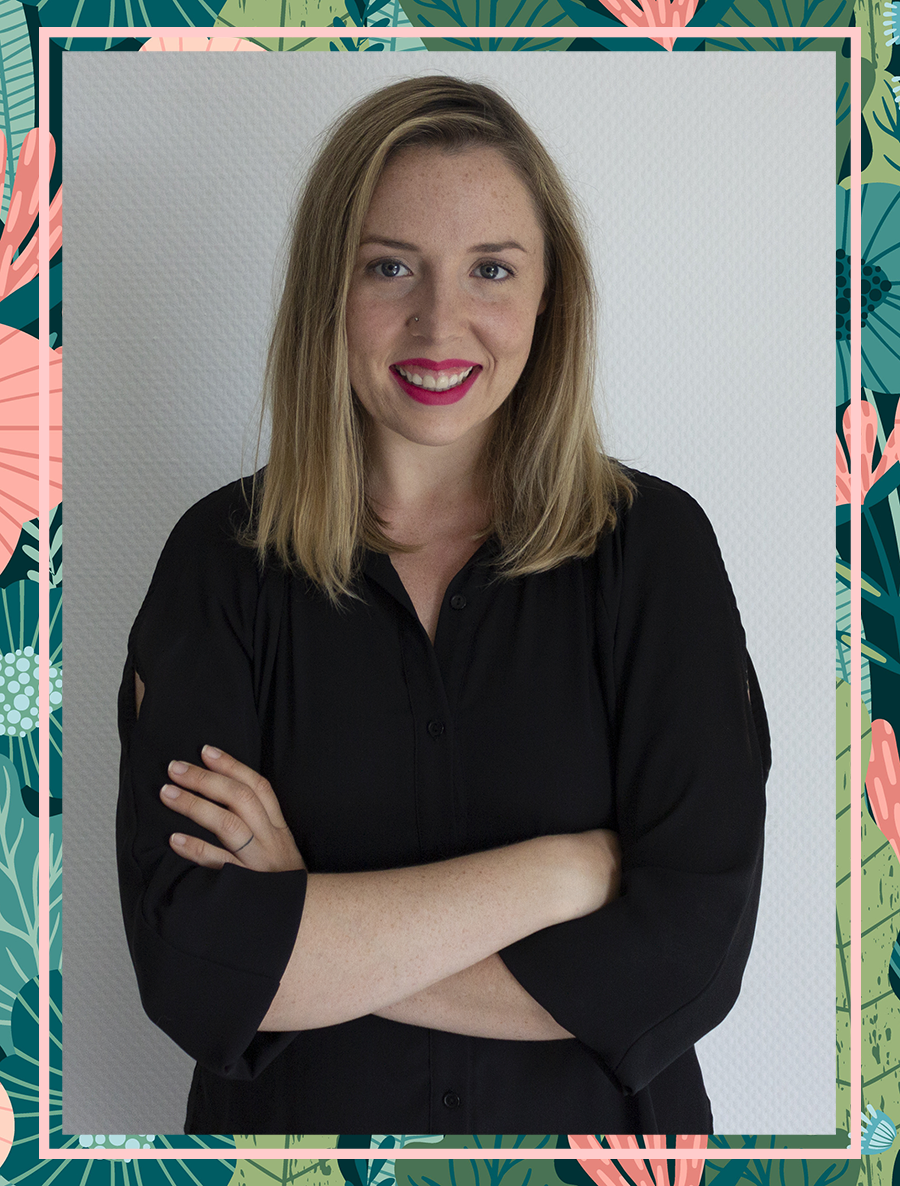
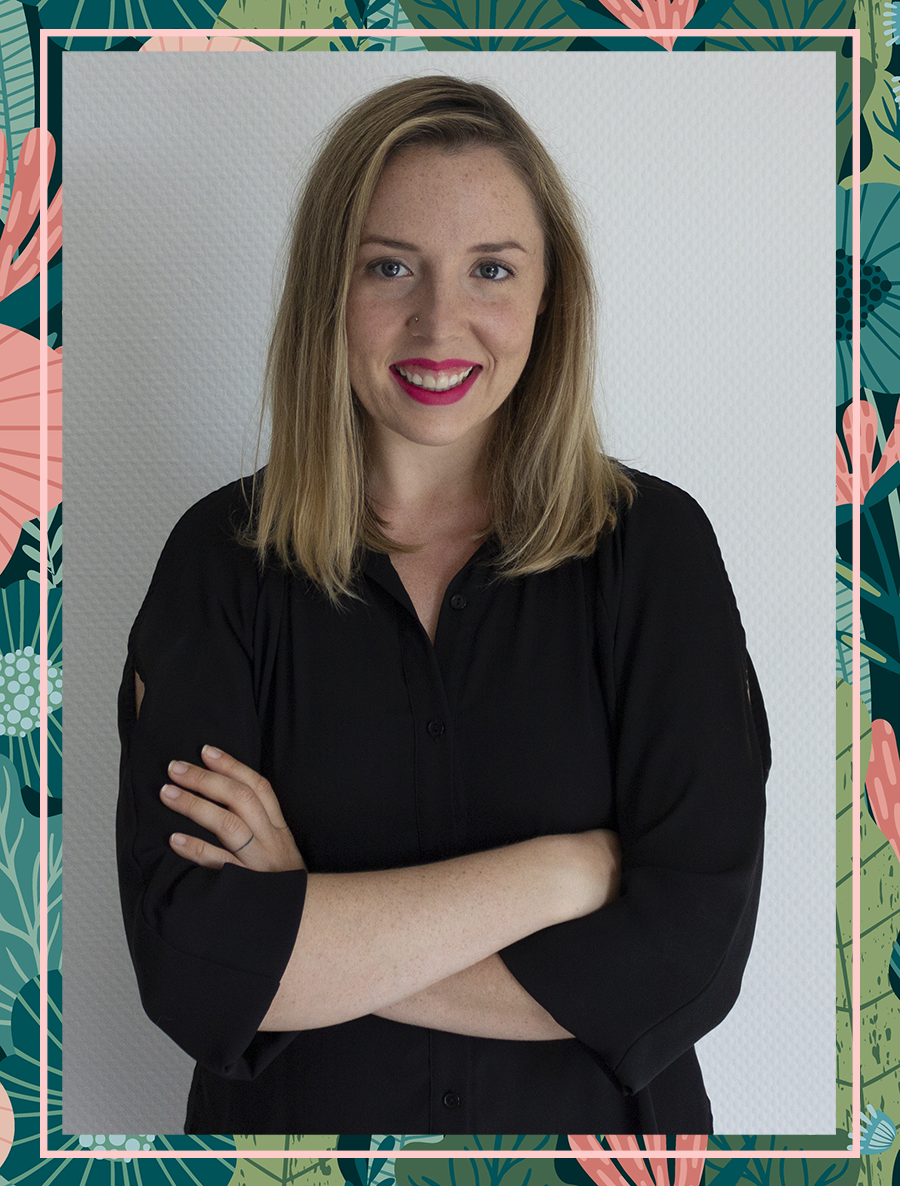
updated headshot for web sizing

diff --git a/index.html b/index.html
@@ -91,7 +91,7 @@
 
         <div class="row">
           <div class="col-lg-4" data-aos="fade-right">
-            <img src="assets/img/headshot-frame.png" class="img-fluid" alt="">
+            <img src="assets/img/headshot-websize.png" class="img-fluid" alt="">
           </div>
           <div class="col-lg-8 pt-4 pt-lg-0 content" data-aos="fade-left">
             <h3>Full Stack Software Engineer.</h3>
